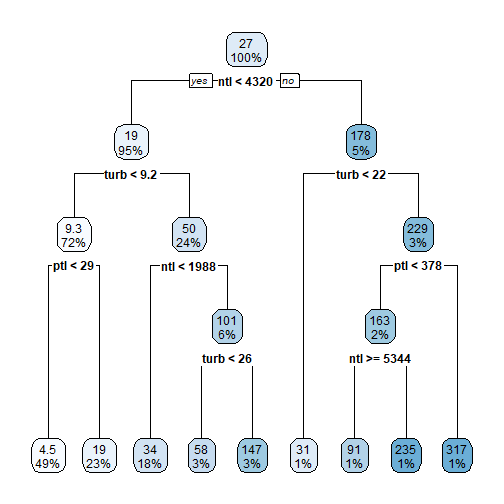
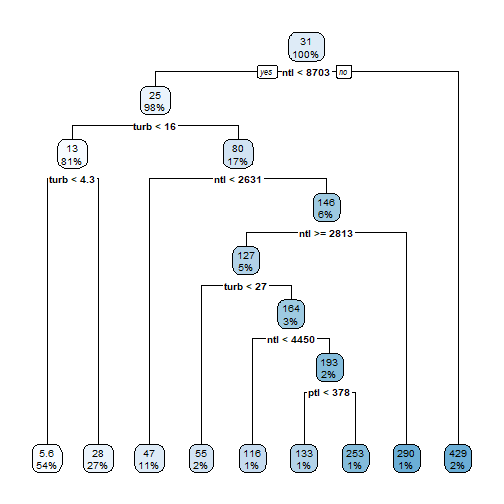
new render

diff --git a/lessons/07_rf_log_broom.md b/lessons/07_rf_log_broom.md
@@ -98,9 +98,11 @@ summary(nla_chla_lm)
 
 Note the formula `chla ~ ptl + ntl + turb + doc`.  This is how we specify model formulas in R.  It represents this general regression formula.
 
+```{=latex}
 \begin{equation}
 Y_i = \beta_0 + \beta_1 X_1 + \beta_2 X_2 + \beta_3 X_3 + \beta_4 X_4 + \epsilon_i
 \end{equation}
+``` 
 
 We will see it used in the other modelling functions as well.
 
@@ -308,6 +310,7 @@ This is pretty cool, right?  One problem though is that this is very tuned to th
 
 
 ```r
+set.seed(42)
 bootstrapped_index <- sample(1:1028, 1028, replace = TRUE)
 nla_just_wq_2 <- nla_just_wq[bootstrapped_index,]
 summary(nla_just_wq)
@@ -335,20 +338,13 @@ summary(nla_just_wq_2)
 ```
 
 ```
-##       ptl              ntl               turb              chla       
-##  Min.   :   1.0   Min.   :   18.0   Min.   :  0.241   Min.   :  0.11  
-##  1st Qu.:  11.0   1st Qu.:  334.8   1st Qu.:  1.490   1st Qu.:  2.97  
-##  Median :  29.0   Median :  601.0   Median :  3.660   Median :  7.47  
-##  Mean   : 106.2   Mean   : 1165.4   Mean   : 13.020   Mean   : 26.74  
-##  3rd Qu.:  86.0   3rd Qu.: 1161.5   3rd Qu.: 10.600   3rd Qu.: 24.88  
-##  Max.   :4679.0   Max.   :25663.0   Max.   :429.000   Max.   :542.40  
-##       doc         
-##  Min.   :  0.340  
-##  1st Qu.:  3.430  
-##  Median :  5.610  
-##  Mean   :  9.572  
-##  3rd Qu.:  8.252  
-##  Max.   :290.570
+##       ptl            ntl             turb              chla              doc         
+##  Min.   :   1   Min.   :    5   Min.   :  0.237   Min.   :  0.070   Min.   :  0.340  
+##  1st Qu.:  10   1st Qu.:  331   1st Qu.:  1.468   1st Qu.:  2.958   1st Qu.:  3.408  
+##  Median :  25   Median :  578   Median :  3.690   Median :  7.720   Median :  5.410  
+##  Mean   : 121   Mean   : 1272   Mean   : 15.330   Mean   : 31.456   Mean   :  8.954  
+##  3rd Qu.:  94   3rd Qu.: 1223   3rd Qu.: 10.800   3rd Qu.: 26.165   3rd Qu.:  8.805  
+##  Max.   :4679   Max.   :26100   Max.   :574.000   Max.   :936.000   Max.   :252.190
 ```
 
 ```r
@@ -358,31 +354,32 @@ rpart.plot(nla_chla_tree_2)
 
 ![plot of chunk rf_2](figures/rf_2-1.png)
 
-Whoa!  Totally different tree!  Random forest takes advantage of this fact,  It generates many different bootstrapped datasets, with permuted variables (e.g., slightly different set of variables for each dataset), and creates many different trees.  It then uses all the trees to create a single prediction.  If the dependent variable is a category, it uses each tree to "vote" for a category and then the prediction is the category with the most votes.  If the dependent variable is a continuous value, the final models prediction is the average prediction for all trees.
+Whoa!  Totally different tree!  Random forest takes advantage of this fact,  It generates many different bootstrapped datasets, with permuted variables (e.g., slightly different set of variables for each dataset), and creates many different trees (default with `randomForest` is 1000).  It then uses all the trees to create a single prediction.  If the dependent variable is a category, it uses each tree to "vote" for a category and then the prediction is the category with the most votes.  If the dependent variable is a continuous value, the final models prediction is the average prediction for all trees.
 
 Now, lets build a classification random forest.  We will model the same thing we did with logistic regression, predicting reference vs trashed lakes using the water chemistry data.
 
 
 ```r
 library(randomForest)
+set.seed(42)
 nla_rt_rf <- randomForest(factor(rt_nla_bin) ~ chla + ptl + ntl + turb + doc, 
-                          data = nla_rt_train, importance = TRUE)
+                          data = nla_rt_train, importance = TRUE, ntree = 5000)
 nla_rt_rf
 ```
 
 ```
 ## 
 ## Call:
-##  randomForest(formula = factor(rt_nla_bin) ~ chla + ptl + ntl +      turb + doc, data = nla_rt_train, importance = TRUE) 
+##  randomForest(formula = factor(rt_nla_bin) ~ chla + ptl + ntl +      turb + doc, data = nla_rt_train, importance = TRUE, ntree = 5000) 
 ##                Type of random forest: classification
-##                      Number of trees: 500
+##                      Number of trees: 5000
 ## No. of variables tried at each split: 2
 ## 
-##         OOB estimate of  error rate: 15.35%
+##         OOB estimate of  error rate: 16.14%
 ## Confusion matrix:
 ##    0   1 class.error
-## 0 83  18   0.1782178
-## 1 21 132   0.1372549
+## 0 82  19   0.1881188
+## 1 22 131   0.1437908
 ```
 
 ```r
@@ -392,7 +389,7 @@ accuracy
 ```
 
 ```
-## [1] 0.8125
+## [1] 0.7916667
 ```
 
 ```r
@@ -402,27 +399,41 @@ table(nla_rt_test$rt_nla_bin, predicted_rt_bin_rf)
 ```
 ##    predicted_rt_bin_rf
 ##      0  1
-##   0 18  5
-##   1  4 21
+##   0 19  4
+##   1  6 19
 ```
+
+In this case the random forest had better overall performance than the logistic regression.  It is usually the case that random forests will out perform many other modelling approaches.  Given this and the **relative** simplicity, I find random forests to be a really good first approach with most modelling problems.  Especially when prediction is the goal.  That being said, we can also use random forest to tease out some information about what is going on with the variables.  One way to do this is with variable importance plots.
 
 
 ```r
+varImpPlot(nla_rt_rf)
+```
+
+![plot of chunk var_imp_plot](figures/var_imp_plot-1.png)
+
+This shows us two measures of accuracy for each of the variables in our model.  We will focus on Mean Decrease in Accuracy.  If you remember, not all variables are included in each of our random forest trees.  Variable importance uses this fact to calculate how well trees without a variable perform vs how well they perform when that variable is included.  So, trees without `ntl` and `ptl` had the biggest drop in accuracy, suggesting the nitrogen and phosphorus are pretty important when it comes to predicting chlorophyll.  Who knew?!?
+
+Finally, let's look at a regression case of random forest and re-run the same model we did initially, predicting chlorophyll with nutrients, turbidity, and dissolved organic carbon.
+
+
+```r
+set.seed(42)
 nla_chla_rf <- randomForest(chla ~ ptl + ntl + turb + doc, 
-                          data = nla_train, importance = TRUE)
+                          data = nla_train, importance = TRUE, ntree = 5000)
 nla_chla_rf
 ```
 
 ```
 ## 
 ## Call:
-##  randomForest(formula = chla ~ ptl + ntl + turb + doc, data = nla_train,      importance = TRUE) 
+##  randomForest(formula = chla ~ ptl + ntl + turb + doc, data = nla_train,      importance = TRUE, ntree = 5000) 
 ##                Type of random forest: regression
-##                      Number of trees: 500
+##                      Number of trees: 5000
 ## No. of variables tried at each split: 1
 ## 
-##           Mean of squared residuals: 2169.655
-##                     % Var explained: 61.22
+##           Mean of squared residuals: 2135.727
+##                     % Var explained: 61.83
 ```
 
 ```r
@@ -439,13 +450,13 @@ nla_chla_rf_rmse
 ```
 
 ```
-## [1] 26.60555
+## [1] 26.43092
 ```
 
 ## `broom`
  
-## Tidy Models
+## P.S.: Tidy Models and Non-linear models
 
-## P.S.: Non-linear models
+We have spent most of this class with a focus on the Tidyverse.  There is a a set of packages in the Tidyverse for modelling.  I haven't used these yet but they look promising.  If you have an interest in trying these out, take a look at <https://www.tidymodels.org/>.  There is also a book, [Tidy Modelling with R](https://www.tmwr.org/) written by the folks who created many of the Tidy Modelling Packages.  I haven't looked closely at it, but I would expect it to be of pretty high quqality as well.
 
-I didn't have time to add non linear models to this, but we can do those too. Look at `nls`, `loess`, and `gam` from the `mgcv` package.  Noam Ross has a fantastic self-paced coarse about GAMs: https://noamross.github.io/gams-in-r-course/.
+Lastly, I didn't have time to add non linear models to this, but we can do those too. Look at `nls`, `loess`, and `gam` from the `mgcv` package.  Noam Ross has a fantastic self-paced coarse about GAMs: https://noamross.github.io/gams-in-r-course/.
